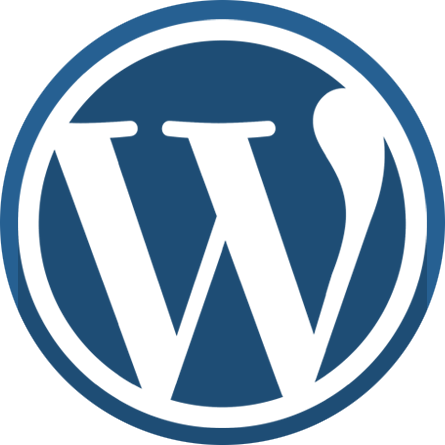
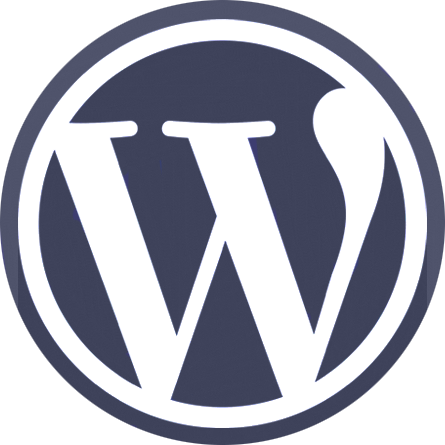
made changes to font color in heading, hero image and nav bar

diff --git a/index.html b/index.html
@@ -1,7 +1,7 @@
 <!doctype html>
 <html lang="en">
     <head>
-        <title>Jubilee Austin | Developer</title>
+        <title>Meg Miller | Developer</title>
 		
 		<link rel="stylesheet" href="css/normalize.css">
 		<link rel="stylesheet" href="css/main.css">
@@ -13,7 +13,7 @@
 			<div class="full-width">
 				<div class="half-width">
 					<h1>Meg Miller</h1>
-					<h2><span>Hi,</span> I'm a developer that loves<br>clean &amp; elegant code.</h2>
+					<h2><span>I'm Meg </span>&amp building beautiful websites is my happy place.</h2>
 				</div>
 				<div class="half-width">
 					
@@ -33,7 +33,7 @@
 					<h2>A little bit about me</h2>
 					
 					<div class="half-width">
-						<p>I&rsquo;ve made my home base in Hilo, Hawaii for the past few years. I live in a small apartment on the bay with my wonderful fiancee Joe, where we live a work with the salty ocean air. After becoming part of a team of like-minded buisiness owners (more accurately, regular people who started businesses from home) I discovered that we all had a need for one thing and we needed that thing soon. That one thing was a website. A web presence is crucial in today&rsquo;s marketing arena and so I jumped into coding with both feet!!</p>
+						<p>I&rsquo;ve made my home base in Hilo, Hawaii for the past few years. I live in a small apartment on the bay with my wonderful fiancee Joe, where we live and work with the salty ocean air. After becoming part of a team of like-minded buisiness owners (more accurately, regular people who started businesses from home) I discovered that we all had a need for one thing and we needed that thing soon. That one thing was a website. A web presence is crucial in today&rsquo;s marketing arena and so I jumped into coding with both feet!!</p>
 					</div>
 					<div class="half-width">
 						<p>Since I built my first Wordpress website using tutorials on Youtube, I have graduated to taking more structured courses at <a href="http://www.skillcrush.com" target="_blank">Skillcrush</a> and I am learning so quickly it seems impossible!! My first desire is to be able to build a quick, affordable, and easily updated website for my fellow entrepreneurs to be able to use and offer along with a position in the business. That being said, I quickly realized the vast potential of these skills, so the sky&rsquo;s the limit! I look forward to helping people stake out their tiny piece of the Web to call their own!</p>
@@ -44,7 +44,7 @@
 			<section id="work">                <!--Begin work section!!!-->
 				<div class="full-width">
 					<div class="third-width">
-						<img class="center-icons" src="img/wordpress-black-circle.png" alt="wordpress icon"/>
+						<img class="center-icons" src="img/wordpress-circle-navy.png" alt="wordpress icon"/>
 						<h3>Wordpress<br>Customization</h3>
 						<br>
 						<p>I love building websites with Wordpress because they are so easy to update for YOU, the client! If you want to change your testimonials, update them as often as you like without having to wait! Of course, there are still times when you need a hand making bigger changes...</p>

diff --git a/css/main.css b/css/main.css
@@ -35,17 +35,17 @@ body {
 /* ************** HEADER SECTION ******************* */
 
 header {
-    height: 600px;
+    height: 650px;
 	width: 1400px;
-    background: url(../img/kings-landing.JPG) no-repeat 0% 55%;
+    background: url(../img/kings-landing.JPG) no-repeat 0% 40%;
     background-size: cover;
 }
 
 header h1 { 
 	font-family: 'Lora', serif;
-	color: #bbc085;
+	color: #006666;
 	font-size: 30px;
-    padding: 50px 0 20px 0;
+    padding: 50px 0 40px 0;
 }
 
 nav {
@@ -60,8 +60,9 @@ nav ul li{
 nav ul li a {
     text-transform: uppercase;
     text-decoration: none;
-    font-size: 18px;
-    color: #828282;
+    font-size: 22px;
+	font-weight: bold;
+    color: #006666;
     padding-left: 80px; 
 }
 
@@ -71,12 +72,12 @@ header h2 {
     font-family: 'Lora', serif;
     font-size: 68px;
     line-height: 80px;
-    color: #9a9b9b;
+    color: #006699;
     padding: 0px 0 20px 0;
 }
 
 header h2 span {
-    color: #262a2b;
+    color: #006666;
 }
 /* ************** ABOUT SECTION ******************* */
 
